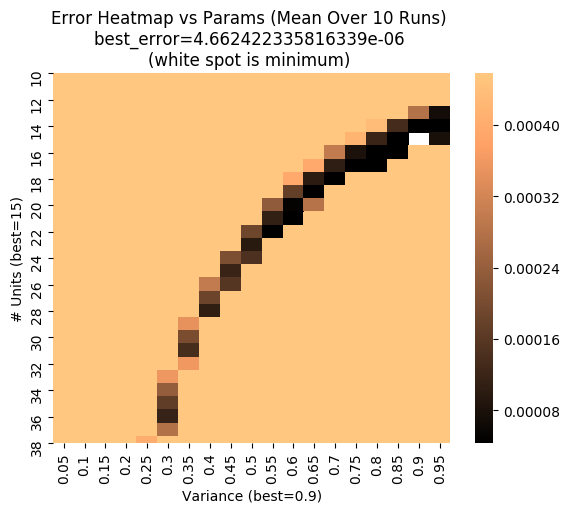
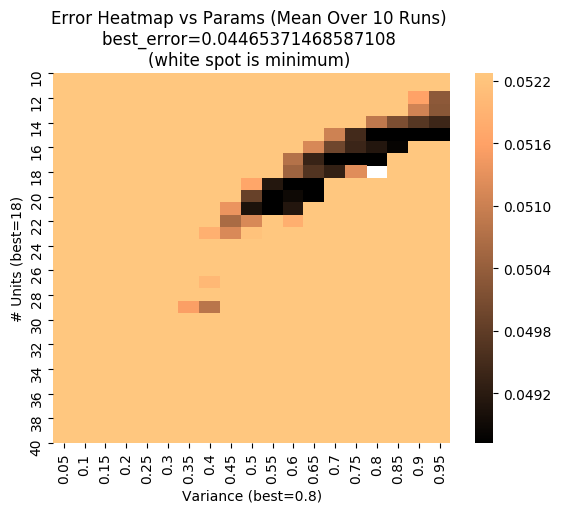
mygod

Changed region(s): [[0.0, 0.1248, 1.0, 0.9981], [0.0909, 0.0, 0.7879, 0.1559], [0.9091, 0.1559, 0.9697, 0.1871]]

diff --git a/lab2/_3_2.py b/lab2/_3_2.py
@@ -6,13 +6,15 @@ from _3_1 import RBF_NET, X, Y_SIN, Y_SQUARE, X_VAL, Y_SIN_VAL, Y_SQUARE_VAL
 
 
 def getNoisy(input_):
-    a = input_ + 0.1 * np.random.randn(*(input_.shape))
-    return a
+    return (input_ + 0.01 * np.random.randn(*(input_.shape)))
 
-def findBestParams(X, Y, training_method, apply_noise=False):
 
-    num_runs = 10
-    hidden_range = np.arange(10, 40)
+def findBestParams(
+    x, y, x_val, y_val, training_method, apply_noise=True, randomize_rbfs=False
+):
+
+    num_runs = 20
+    hidden_range = np.arange(10, 41)
     var_range = np.round(np.arange(0.05, 1.0, 0.05), 2)
 
     errors = np.ndarray((num_runs, len(hidden_range), len(var_range)))
@@ -22,31 +24,35 @@ def findBestParams(X, Y, training_method, apply_noise=False):
 
         print("Run", run)
 
-        Y = getNoisy(np.array([Y])) if apply_noise else Y
+        y, y_val = getNoisy(np.array([y, y_val])) if apply_noise else (y, y_val)
 
         for i, hidden_num in enumerate(hidden_range):
             for j, rbfs_variance in enumerate(var_range):
 
-                rbfs_mean = np.arange(0, 2 * np.pi, 2 * np.pi / hidden_num)
-                n = RBF_NET(rbfs_mean, rbfs_variance)
+                cont = False
+                
+                while not cont:
+                    rbfs_mean = (
+                        np.arange(0, 2 * np.pi, 2 * np.pi / hidden_num)
+                        if not randomize_rbfs
+                        else np.random.uniform(0, 2 * np.pi, hidden_num)
+                    )
 
-                def cb():
-                    pred = n.predict(X)
-                    plt.plot(X, pred)
-                    plt.plot(rbfs_mean, [0] * len(rbfs_mean), "ro")
-                    plt.plot(X, Y)
-                    plt.title(f"{hidden_num}, {rbfs_variance}")
-                    plt.show(block=False)
-                    plt.pause(0.001)
-                    plt.clf()
+                    n = RBF_NET(rbfs_mean, rbfs_variance)
 
-                eps = n.__getattribute__(training_method)(X, Y, callback=None)
+                    try:
+                        eps = n.__getattribute__(training_method)(x, y, callback=None)
+                        cont = True
+                    except:
+                        pass
 
-                e = n.error(X_VAL, Y_SIN_VAL)
+                e = n.error(x_val, y_val)
+
                 errors[run][i][j] = np.inf if np.isnan(e) else e
                 num_epochs[run][i][j] = eps
 
     errors_mean = np.mean(errors, axis=0)
+    errors_std = np.std(errors, axis=0)
 
     vmax_num = 50
     vmax = np.partition(errors_mean.flatten(), vmax_num)[vmax_num]
@@ -54,8 +60,9 @@ def findBestParams(X, Y, training_method, apply_noise=False):
     row, col = np.unravel_index(np.argmin(errors_mean), errors_mean.shape)
     best_params = hidden_range[row], var_range[col]
     best_error = errors_mean[(row, col)]
-    errors_mean[(row, col)] = -np.inf
+    best_error_std = errors_std[(row, col)]
 
+    errors_mean[(row, col)] = -np.inf
     d = pd.DataFrame(errors_mean, index=hidden_range, columns=var_range)
     sn.heatmap(d, vmax=vmax, cmap="copper", robust=True)
     plt.xlabel(f"Variance (best={best_params[1]})")
@@ -67,20 +74,22 @@ def findBestParams(X, Y, training_method, apply_noise=False):
     print("Best Error:", best_error)
     print("Best Parameters:", best_params)
 
+    return best_error, best_error_std
+
 
 if __name__ == "__main__":
 
     # 3.2.1 3.2.3
-    # findBestParams(X, Y_SIN, "train_batch")
+    # findBestParams(X, Y_SIN, X_VAL, Y_SIN_VAL, "train_batch")
     # plt.savefig("pictures/3_2_parameter_map_batch_sin.png", bbox_inches='tight')
     # plt.clf()
-    # findBestParams(X, Y_SQUARE, "train_batch")
+    # findBestParams(X, Y_SQUARE, X_VAL, Y_SQUARE_VAL, "train_batch")
     # plt.savefig("pictures/3_2_parameter_map_batch_square.png", bbox_inches='tight')
     # plt.clf()
 
-    findBestParams(X, Y_SIN, "train_delta_batch")
-    plt.savefig("pictures/3_2_parameter_map_delta_sin.png", bbox_inches="tight")
-    plt.clf()
+    # findBestParams(X, Y_SIN, "train_delta_batch")
+    # plt.savefig("pictures/3_2_parameter_map_delta_sin.png", bbox_inches="tight")
+    # plt.clf()
     # findBestParams(X, Y_SQUARE, "train_delta_batch")
     # plt.savefig("pictures/3_2_parameter_map_delta_square.png", bbox_inches='tight')
     # plt.clf()
@@ -88,4 +97,8 @@ if __name__ == "__main__":
     # 3.2.2 Use best params to find rate of convergence
 
     # 3.2.4 Random positioning of rbf nodes
-
+    print (findBestParams(X, Y_SIN, X_VAL, Y_SIN_VAL, "train_batch"))
+    plt.show()
+    plt.clf()
+    print (findBestParams(X, Y_SIN, X_VAL, Y_SIN_VAL, "train_batch", randomize_rbfs=True))
+    plt.show()

diff --git a/lab2/_3_1.py b/lab2/_3_1.py
@@ -58,9 +58,8 @@ class RBF_NET:
             callback() if callback else None
             if self.error(X, Y) < 0.01:
                 break
-        
+
         return _
-        
 
     def predict(self, X):
         return self.activation(self.phi(X) @ self.W)
@@ -68,10 +67,15 @@ class RBF_NET:
     def error(self, X, Y):
         return np.sum((self.predict(X) - Y) ** 2)
 
-def runWithParams(X,Y,X_VAL,Y_VAL,means,variance,training_method)
+
+def runWithParams(x, y, x_val, y_val, means, variance, training_method):
     """
     Returns validation error based on training with X, Y
     """
+    n = RBF_NET(means, variance)
+    n.__getattribute__(training_method)(x, y, callback=None)
+    return n.error(x_val, y_val)
+
 
 if __name__ == "__main__":
 
